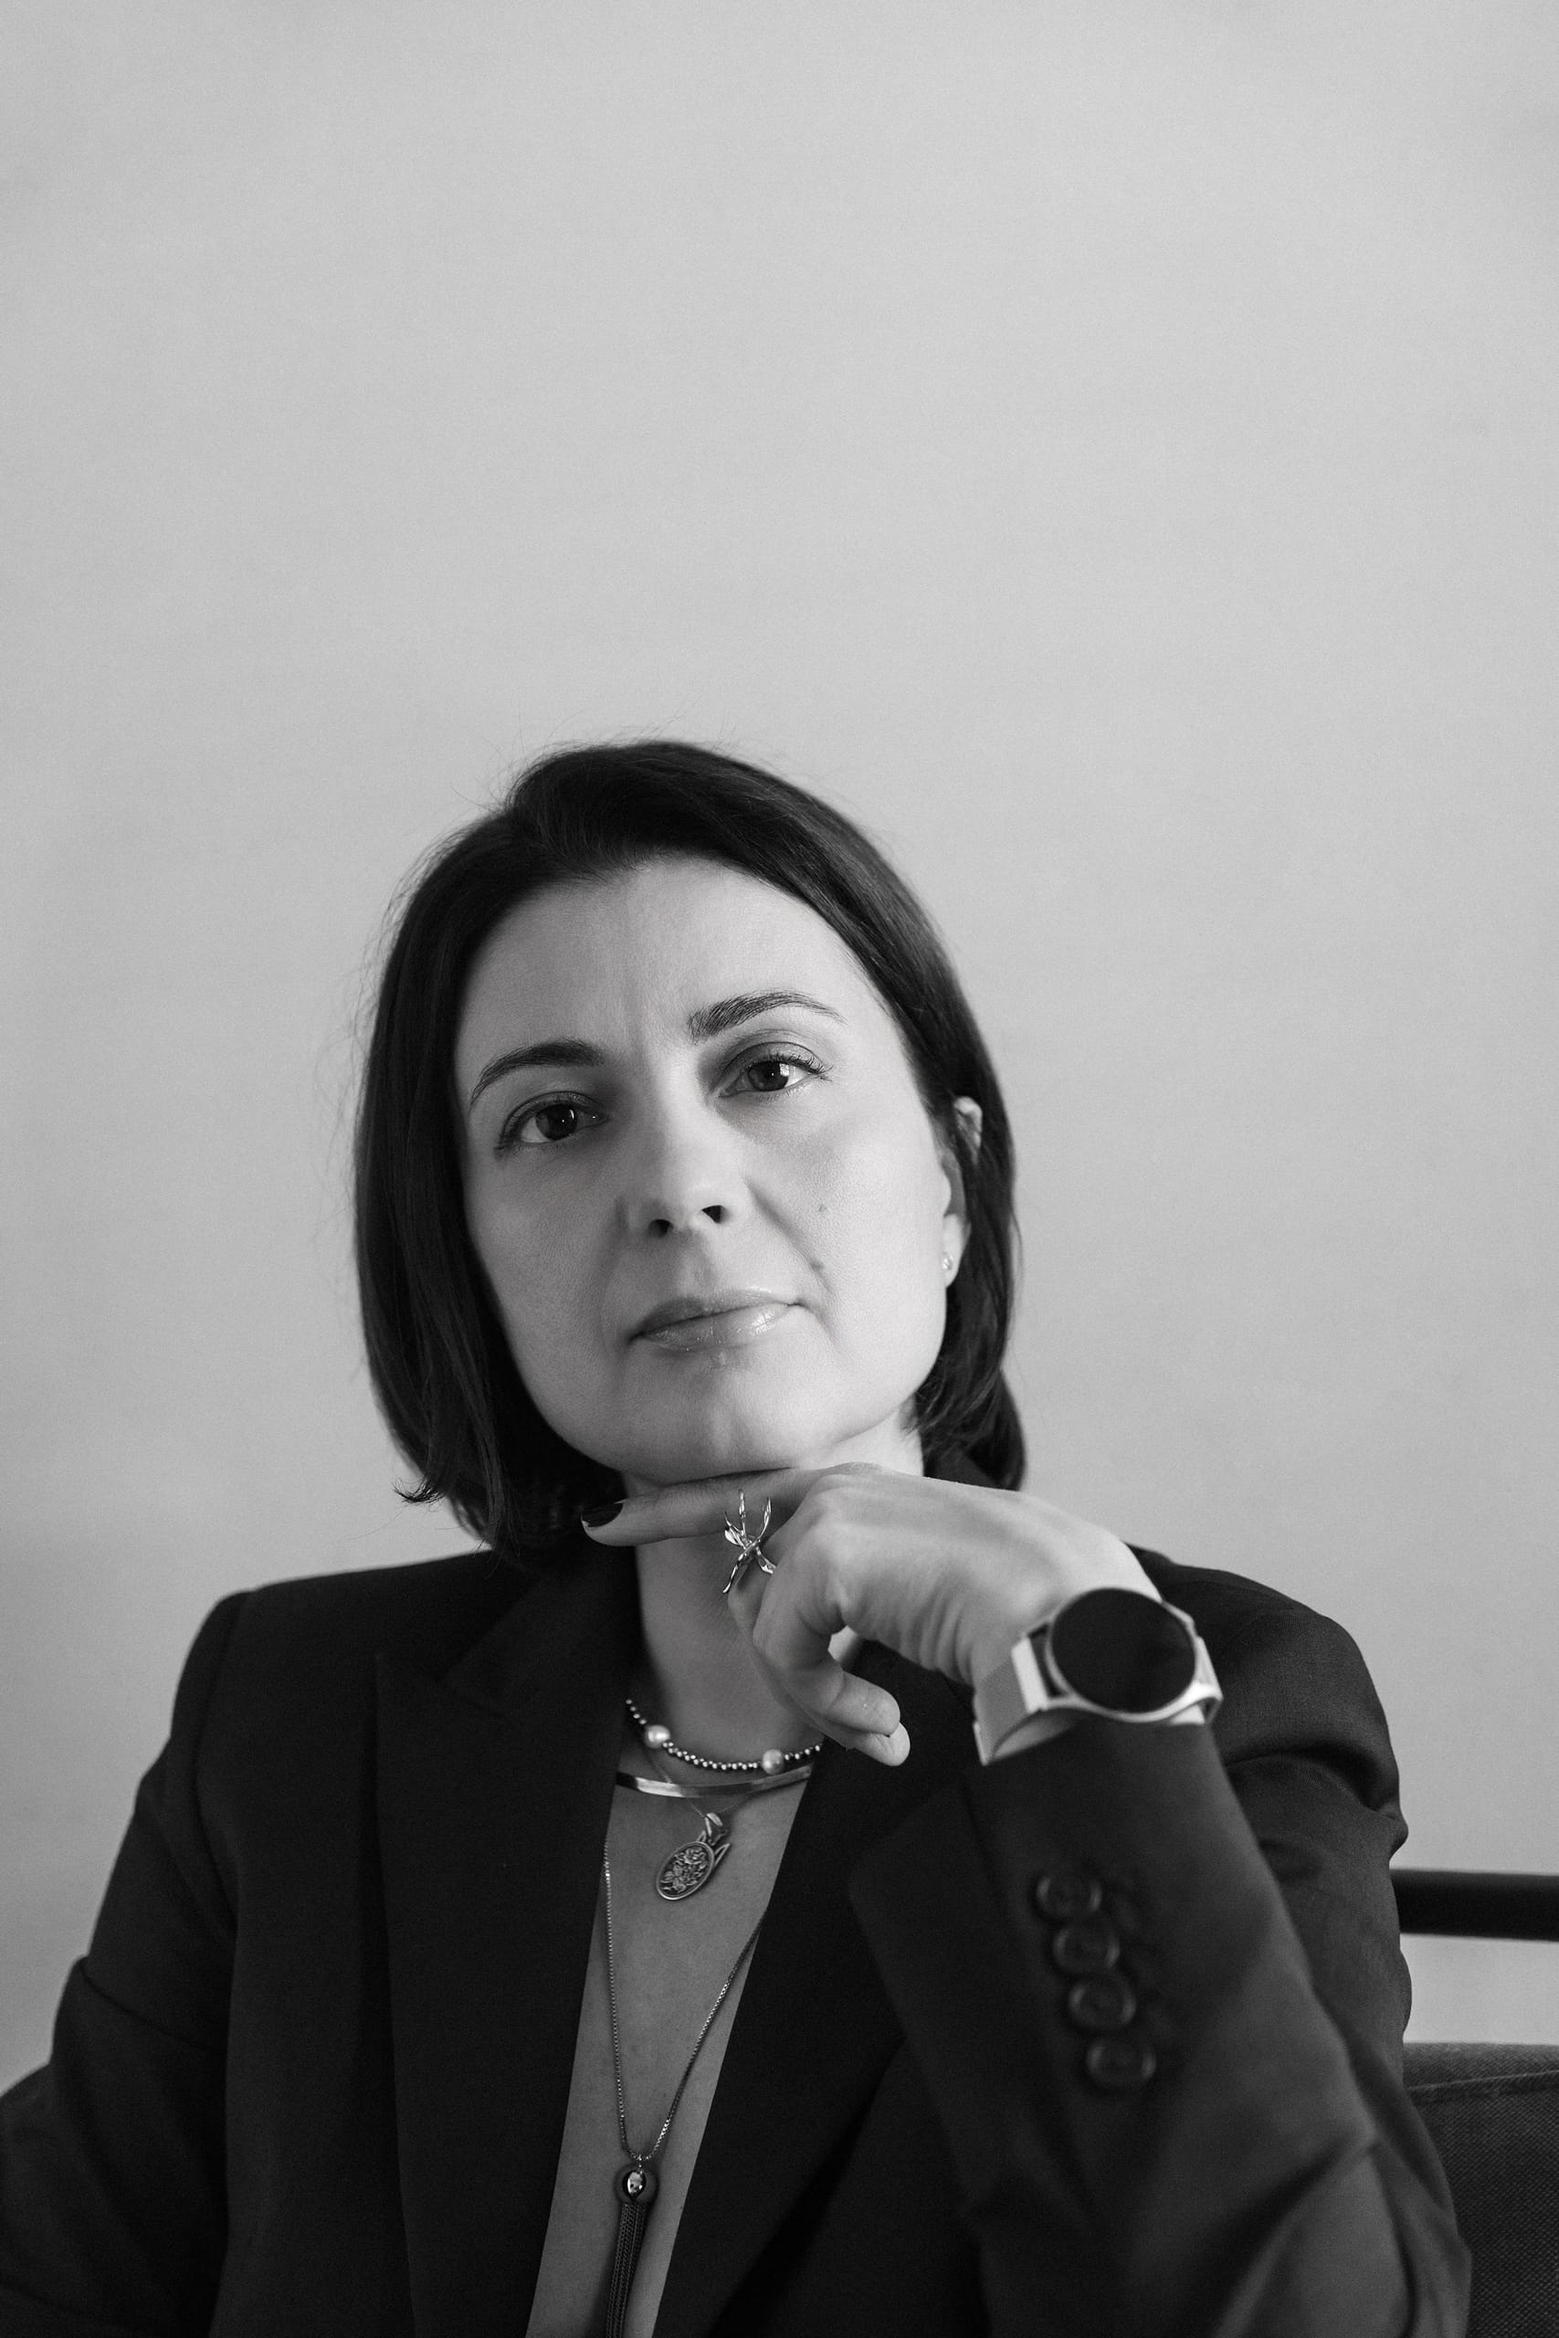
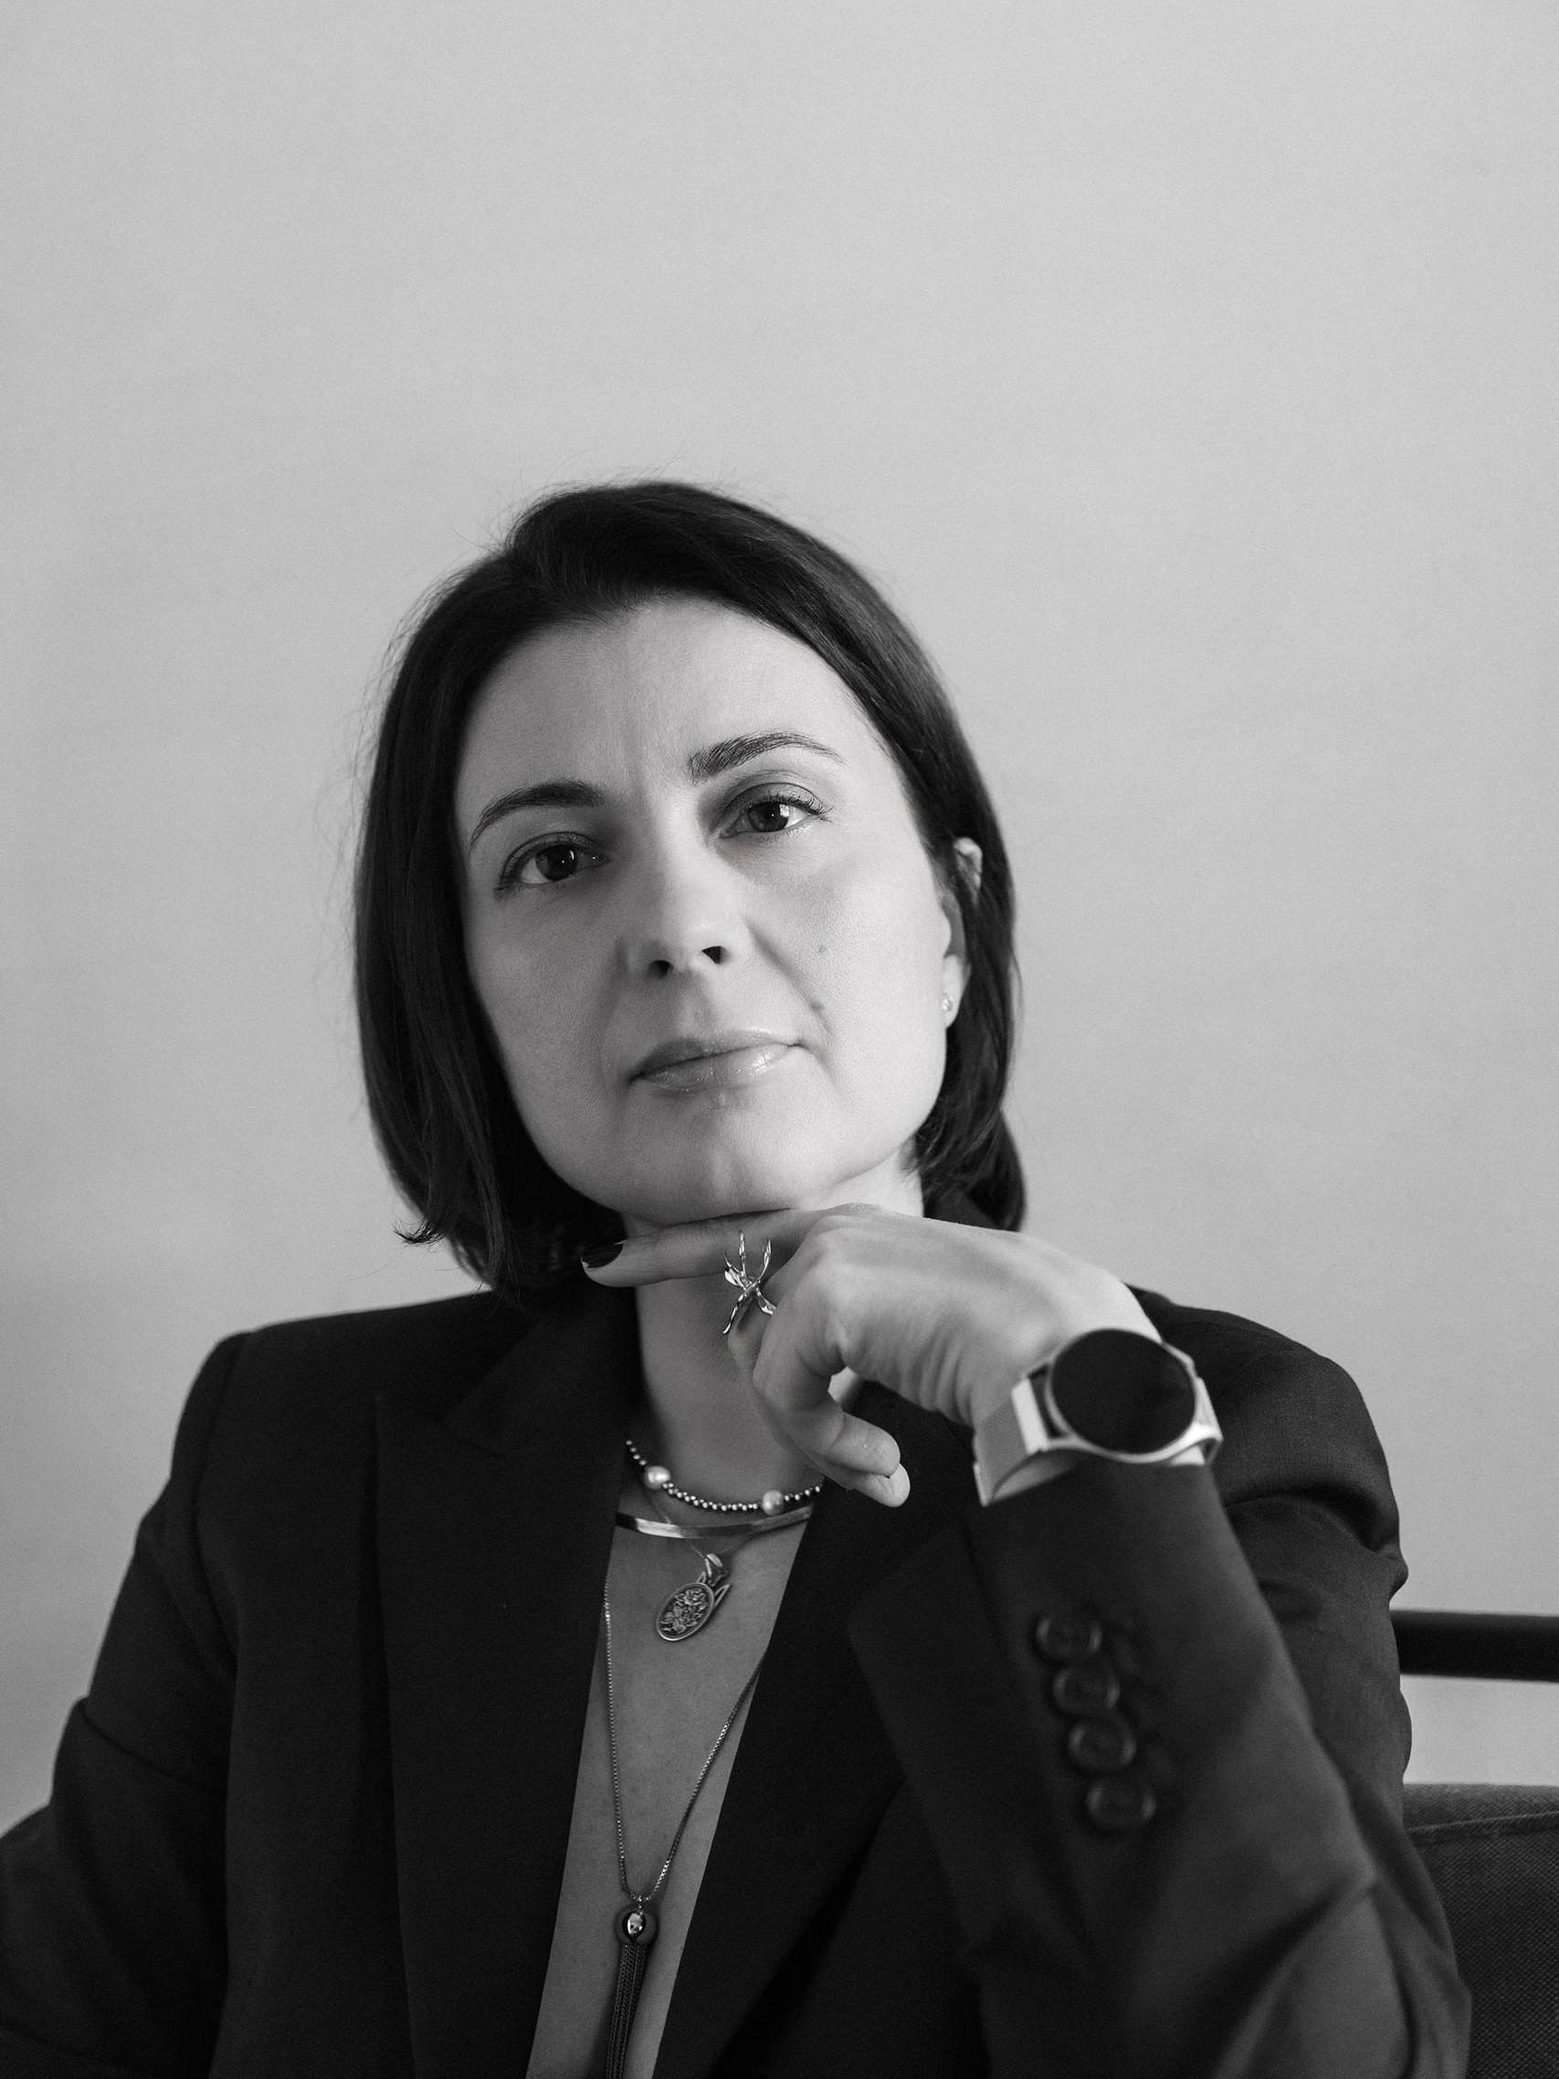
add GalleryLinks, adapt about

diff --git a/components/layout/GalleriesItem/GalleriesItem.tsx b/components/layout/GalleriesItem/GalleriesItem.tsx
@@ -1,0 +1,46 @@
+import css from "./GalleriesItem.module.css";
+import { useTranslations } from "next-intl";
+import Btn from "@/components/ui/Btn/Btn";
+import Image from "next/image";
+import { YULIIA } from "@/lib/data/personal";
+import { THE_BODY_SPEAKS } from "@/lib/data/creatives";
+import { Link } from "@/lib/navigation";
+
+type GalleriesItemProps = {
+  className?: string;
+  id: string;
+};
+
+export default function GalleriesItem({ className, id }: GalleriesItemProps) {
+  const t = useTranslations(`home.galleries.${id}`);
+  const href =
+    id === "gallery1"
+      ? "/personal-stories"
+      : id === "gallery2"
+        ? "brand-stories"
+        : "/artists-and-performers";
+  const src =
+    id === "gallery1"
+      ? YULIIA[3]
+      : id === "gallery2"
+        ? YULIIA[3] // !
+        : THE_BODY_SPEAKS[11];
+
+  return (
+    <li className={`${css.item} ${className ?? ""}`}>
+      <Link className={css.link} href={href} aria-label={t("btn")}>
+        <span className={css.thumb}>
+          <Image
+            src={src}
+            alt=""
+            className={css.img}
+            sizes="(min-width: 1440px) 33vw, (min-width: 768px) 50vw, 100vw"
+          />
+        </span>
+      </Link>
+      <h3 className={css.title}>{t("title")}</h3>
+      <p className={css.subtitle}>{t("subtitle")}</p>
+      <Btn href={href}>{t("btn")}</Btn>
+    </li>
+  );
+}

diff --git a/lib/data/galleries.ts b/lib/data/galleries.ts
@@ -1,35 +1,8 @@
-import type { GalleryCategory, GallerySet, Photo } from "@/lib/types/gallery";
-import manifest from "./galleries.generated.json";
+import type { GalleryCategory } from "@/lib/types/gallery";
+export { photosOf, set } from "./photos";
 import { COUPLES_SETS, PERSONAL_SETS } from "./personal";
 import { BRAND_SETS } from "./brand";
 import { CREATIVES_SETS } from "./creatives";
-
-export function photosOf(folder: string): Photo[] {
-  const entries = (
-    manifest as Record<
-      string,
-      { file: string; width: number; height: number }[]
-    >
-  )[folder];
-  if (!entries) {
-    throw new Error(`No scanned photos for "${folder}" — run npm run scan`);
-  }
-  return entries.map((e) => ({
-    src: `/galleries/${folder}/${e.file}`,
-    width: e.width,
-    height: e.height,
-  }));
-}
-
-export function set(
-  slug: string,
-  title: string,
-  cover: Photo,
-  photos: Photo[],
-  extra?: Partial<GallerySet>,
-): GallerySet {
-  return { slug, title: { en: title }, cover, photos, ...extra };
-}
 
 export const GALLERIES: GalleryCategory[] = [
   {

diff --git a/components/sections/GalleriesLinks/GalleriesLinks.tsx b/components/sections/GalleriesLinks/GalleriesLinks.tsx
@@ -1,0 +1,25 @@
+import css from "./GalleriesLinks.module.css";
+import Section from "@/components/ui/Section/Section";
+import Container from "@/components/ui/Container/Container";
+import GalleriesItem from "@/components/layout/GalleriesItem/GalleriesItem";
+import { useTranslations } from "next-intl";
+
+export default function GalleriesLinks() {
+  const t = useTranslations("home");
+  return (
+    <Section className={css.section}>
+      <Container>
+        <ul className={css.galleries}>
+          {Object.keys(
+            t.raw("galleries") as Record<
+              string,
+              { title: string; subtitle: string }
+            >,
+          ).map((id) => (
+            <GalleriesItem key={id} id={id} />
+          ))}
+        </ul>
+      </Container>
+    </Section>
+  );
+}

diff --git a/lib/data/photos.ts b/lib/data/photos.ts
@@ -1,0 +1,29 @@
+import type { GallerySet, Photo } from "@/lib/types/gallery";
+import manifest from "./galleries.generated.json";
+
+export function photosOf(folder: string): Photo[] {
+  const entries = (
+    manifest as Record<
+      string,
+      { file: string; width: number; height: number }[]
+    >
+  )[folder];
+  if (!entries) {
+    throw new Error(`No scanned photos for "${folder}" — run npm run scan`);
+  }
+  return entries.map((e) => ({
+    src: `/galleries/${folder}/${e.file}`,
+    width: e.width,
+    height: e.height,
+  }));
+}
+
+export function set(
+  slug: string,
+  title: string,
+  cover: Photo,
+  photos: Photo[],
+  extra?: Partial<GallerySet>,
+): GallerySet {
+  return { slug, title: { en: title }, cover, photos, ...extra };
+}

diff --git a/components/layout/GalleriesItem/GalleriesItem.module.css b/components/layout/GalleriesItem/GalleriesItem.module.css
@@ -1,0 +1,47 @@
+.item {
+  text-align: center;
+
+  @media screen and (min-width: 768px) {
+    max-width: calc((100% - 64px) / 2);
+  }
+  @media screen and (min-width: 1440px) {
+    max-width: calc((100% - 128px) / 3);
+  }
+}
+
+.link {
+  display: block;
+  &:hover,
+  &:focus-visible {
+    transform: none;
+  }
+}
+
+.thumb {
+  position: relative;
+  display: block;
+  width: 100%;
+  aspect-ratio: 3 / 4;
+  overflow: hidden;
+  background-color: var(--green);
+}
+
+.img {
+  object-fit: cover;
+}
+
+.link:hover .img,
+.link:focus-visible .img {
+  transform: scale(1.05);
+}
+
+.title {
+  margin-bottom: 16px;
+  text-transform: uppercase;
+  font-family: var(--font-forum);
+}
+
+.subtitle {
+  font-family: var(--font-alice);
+  margin-bottom: 16px;
+}

diff --git a/app/[locale]/about/About.module.css b/app/[locale]/about/About.module.css
@@ -9,20 +9,38 @@
 
 .container {
   display: flex;
-  gap: 64px;
+  flex-direction: column;
+  gap: 32px;
   max-width: 1240px;
+
+  @media screen and (min-width: 768px) {
+    flex-direction: row;
+    gap: 64px;
+  }
 }
+.container {
+  display: flex;
+}
+
 .moreContainer {
   max-width: 1240px;
 }
 
+.thumb {
+  position: relative;
+  display: block;
+  width: 100%;
+  aspect-ratio: 3 / 4;
+}
 .img {
   flex: 0 0 auto;
-  width: clamp(280px, 60%, 600px);
+  object-fit: cover;
 }
 
 .textDiv {
-  padding-top: 64px;
+  @media screen and (min-width: 768px) {
+    padding-top: 64px;
+  }
 }
 
 .preHeading {
@@ -50,7 +68,7 @@
 }
 
 .text {
-  width: 396px;
+  max-width: 396px;
   &:not(:last-child) {
     margin-bottom: 8px;
   }

diff --git a/components/sections/AboutMe/AboutMe.tsx b/components/sections/AboutMe/AboutMe.tsx
@@ -13,12 +13,14 @@ export default function AboutMe() {
   return (
     <Section className={css.section}>
       <Container className={css.container}>
-        <Image
-          src={ABOUT[0]}
-          alt=""
-          sizes="(min-width: 1440px) 600px, 60vw"
-          className={css.img}
-        />
+        <span className={css.thumb}>
+          <Image
+            src={ABOUT[0]}
+            alt=""
+            sizes="100vw (min-width: 1440px) 600px, 60vw"
+            className={css.img}
+          />
+        </span>
         <div className={css.textDiv}>
           <p className={css.preHeading}>{t("preHeading1")}</p>
           <Heading text={t("heading")} className={css.heading} />

diff --git a/lib/data/creatives.ts b/lib/data/creatives.ts
@@ -1,4 +1,4 @@
-import { photosOf, set } from "./galleries";
+import { photosOf, set } from "./photos";
 
 const C = "creatives/";
 
@@ -6,7 +6,7 @@ const THEATRE_STORY = photosOf(`${C}theatre-story`);
 const DANCE_IN_LIGHT = photosOf(`${C}dance-in-light`);
 const HIS_OWN_STAGE = photosOf(`${C}his-own-stage`);
 const URBAN_MOTION = photosOf(`${C}urban-motion`);
-export const THE_BODY_SPEAKS = photosOf(`${C}the-body-speaks`); //THE_BODY_SPEAKS[11]
+export const THE_BODY_SPEAKS = photosOf(`${C}the-body-speaks`);
 const THE_MUSE = photosOf(`${C}the-muse`);
 const IN_TRANSIT = photosOf(`${C}in-transit`);
 export const IN_FORM = photosOf(`${C}in-form`);

diff --git a/app/[locale]/brand-stories/page.tsx b/app/[locale]/brand-stories/page.tsx
@@ -1,11 +1,14 @@
 import GallerySection from "@/components/sections/GallerySection/GallerySection";
+import GalleryTitle from "@/components/sections/GalleryTitle/GalleryTitle";
 import Motto from "@/components/sections/Motto/Motto";
 
 export default function BrandStories() {
   return (
     <main>
+      <GalleryTitle namespace="brand" backg="brands" />
       <Motto namespace="brand.motto" href="/services" />
       <GallerySection category="brand-stories" group="brand" />
+      <Motto namespace="brand.mottoEnd" href="/contact" backg />
     </main>
   );
 }

diff --git a/app/[locale]/page.tsx b/app/[locale]/page.tsx
@@ -1,4 +1,5 @@
 import Feedback from "@/components/sections/Feedback/Feedback";
+import GalleriesLinks from "@/components/sections/GalleriesLinks/GalleriesLinks";
 import Hero from "@/components/sections/Hero/Hero";
 import Motto from "@/components/sections/Motto/Motto";
 
@@ -7,7 +8,7 @@ export default function Home() {
     <main>
       <Hero />
       <Motto namespace="home.motto" href="/about" caps as="h1" />
-      {/* //* */}
+      <GalleriesLinks />
       <Feedback />
       <Motto namespace="home.mottoEnd" href="/contact" backg />
     </main>

diff --git a/lib/data/personal.ts b/lib/data/personal.ts
@@ -1,11 +1,11 @@
-import { photosOf, set } from "./galleries";
+import { photosOf, set } from "./photos";
 
 const P = "personal/";
 
 export const SOPHIIA = photosOf(`${P}sophiia`);
 const ELMIRA = photosOf(`${P}elmira`);
 const MARINA = photosOf(`${P}marina`);
-export const YULIIA = photosOf(`${P}yuliia`); //YULIIA[3]
+export const YULIIA = photosOf(`${P}yuliia`);
 const OLEXANDRA = photosOf(`${P}olexandra`);
 const ANNA = photosOf(`${P}anna`);
 const VIKTORIIA = photosOf(`${P}viktoriia`);

diff --git a/components/layout/FeedbackItem/FeedbackItem.module.css b/components/layout/FeedbackItem/FeedbackItem.module.css
@@ -1,9 +1,9 @@
 .item {
   text-align: center;
-  max-width: 300px;
   position: relative;
 
   @media screen and (min-width: 768px) {
+    max-width: calc((100% - 64px) / 2);
     &:first-child::after {
       content: "";
       width: 1px;
@@ -18,6 +18,12 @@
     }
     &:nth-child(2) {
       order: 3;
+    }
+    @media screen and (min-width: 1440px) {
+      max-width: calc((100% - 128px) / 3);
+      &:nth-child(2) {
+        order: unset;
+      }
     }
   }
 
